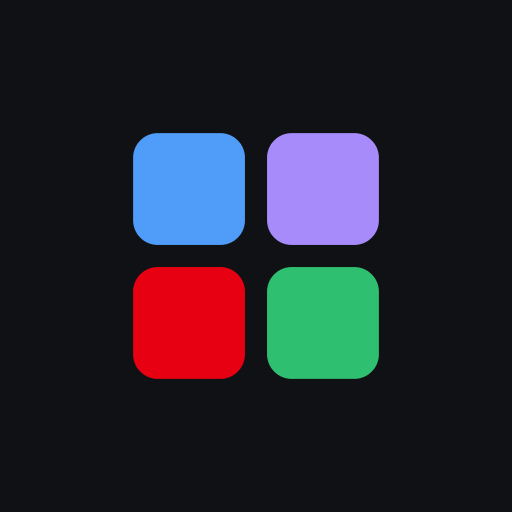
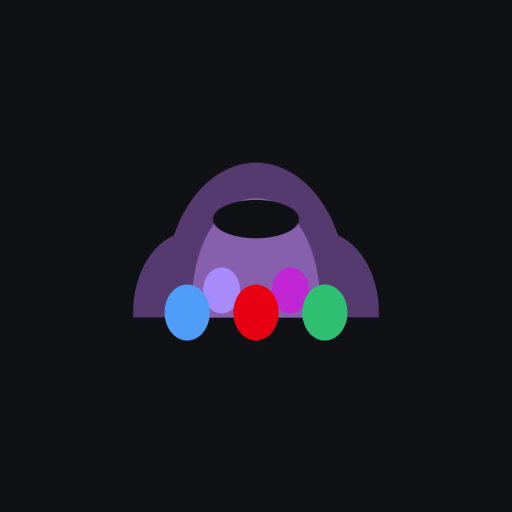
Icono nuevo: el criadero, con un huevo por seccion
El 2x2 de colores no admitia la quinta seccion, asi que iconos.py llevaba
plantado desde geopolitica y el icono estaba congelado con los cuatro colores
viejos. Los huevos salen de secciones.json y el techo pasa a ocho, que es
donde dejan de llegar a un pixel en la pestana.

Todas las piezas son elipses (la cupula es una elipse cortada por el suelo)
para que el PNG y el SVG salgan del mismo formas(): por distancia al borde
uno, con <ellipse> y un <clipPath> el otro. Una curva mas libre pedia
rasterizar poligonos aqui y escribir bezieres alli, o sea dos dibujos.

Los hombros, la boca ancha y el aro por encima salieron de mirarlo a 16, 24,
32 y 48 px; ninguna de las tres correcciones se veia a 512.

Changed region(s): [[0.25, 0.25, 0.75, 0.75]]

diff --git a/scripts/iconos.py b/scripts/iconos.py
@@ -1,16 +1,34 @@
 #!/usr/bin/env python3
 """Genera el icono de la web en sus cinco tamanos, y la imagen de compartir.
 
-Existe para que el icono no sea un binario opaco: los colores salen de
-assets/estilo.css, asi que el dia que cambie el acento de una seccion se
-regenera con `python3 scripts/iconos.py` en vez de repintarlo a mano.
+Existe para que el icono no sea un binario opaco: los colores de las secciones
+salen de assets/estilo.css, asi que el dia que cambie el acento de una seccion
+se regenera con `python3 scripts/iconos.py` en vez de repintarlo a mano.
 
-El dibujo son los cuatro colores de seccion en rejilla, en el mismo orden que
-la portada. Sin letras a proposito: a 32 px una inicial no se lee, y cuatro
-manchas de color si se reconocen de un vistazo entre veinte pestanas.
+El dibujo es el criadero que da nombre a la web: un monticulo con su abertura
+y, delante, un huevo por seccion con el color de esa seccion. Sin letras a
+proposito: a 32 px una inicial no se lee, y una silueta con manchas de color si
+se reconoce de un vistazo entre veinte pestanas.
+
+Antes eran los cuatro colores de seccion en rejilla, y el 2x2 se rompio al
+abrir geopolitica: el script se planto a proposito en vez de dejar una seccion
+fuera sin decirlo, y el icono se quedo congelado con los cuatro colores viejos.
+Los huevos no tienen ese problema: se reparten en dos filas y cuantos son sale
+de secciones.json, asi que la sexta seccion ya no obliga a redibujar nada.
 
 Solo biblioteca estandar, como el resto de scripts del proyecto: el PNG se
 escribe a mano (zlib + struct), que para figuras planas son treinta lineas.
+
+Y el dibujo se declara una sola vez, en formas(): de ahi salen tanto los PNG
+como el SVG. Cuando cada formato tenia su propio codigo de dibujo -y lo tuvo-
+la duplicacion no molestaba porque eran cuatro cuadrados; con una silueta, dos
+descripciones del mismo dibujo acaban siendo dos dibujos distintos.
+
+Por eso todas las piezas son elipses, incluida la cupula, que es una elipse
+cortada por la linea del suelo: es lo unico que los dos formatos saben pintar
+identico sin aproximar nada, por distancia al borde en el PNG y con <ellipse>
+y un <clipPath> en el SVG. Una curva mas libre obligaria a rasterizar poligonos
+aqui y a escribir bezieres alli, que es justo la divergencia que se evita.
 """
 
 import json
@@ -25,18 +43,30 @@ CSS = RAIZ / "assets" / "estilo.css"
 ASSETS = RAIZ / "assets"
 LISTA = ASSETS / "secciones.json"
 
+# Los dos tonos del monticulo. Estos si viven aqui y no en estilo.css, al reves
+# que los de los huevos: no los usa ninguna pagina, son solo del icono. Van en
+# ciruela desaturado para que ningun acento de seccion se pierda encima, y no
+# mas oscuros porque sobre el fondo (#0f1115) la silueta se emborrona a 32 px.
+CUPULA = (0x55, 0x3a, 0x70)
+CUPULA_LUZ = (0x86, 0x5f, 0xad)
+
+# A partir de aqui los huevos son mas finos que un pixel en la pestana. No es
+# un limite tecnico, es que dejarian de leerse; el dia que llegue hay que
+# decidir el dibujo, igual que paso con el 2x2.
+MAXIMO_HUEVOS = 8
+
 
 def acentos():
     """Los sufijos de color de cada seccion, en el orden en que se pintan."""
     secciones = json.loads(LISTA.read_text(encoding="utf-8"))["secciones"]
     nombres = [s["acento"] for s in secciones]
-    if len(nombres) != 4:
+    if not 1 <= len(nombres) <= MAXIMO_HUEVOS:
         raise SystemExit(
-            f"ERROR: el icono son cuatro cuadros en rejilla y "
-            f"{LISTA.name} tiene {len(nombres)} secciones.\n"
-            "Con otro numero hay que decidir antes que dibujo se quiere: "
-            "cinco colores no caben en un 2x2, y quedarse con los cuatro "
-            "primeros dejaria una seccion fuera sin decirlo."
+            f"ERROR: el icono lleva un huevo por seccion y {LISTA.name} tiene "
+            f"{len(nombres)}.\n"
+            f"Por encima de {MAXIMO_HUEVOS} cada huevo no llega a un pixel en "
+            "la pestana, asi que hay que decidir antes que dibujo se quiere "
+            "en vez de pintar manchas que no se distinguen."
         )
     return nombres
 
@@ -59,56 +89,126 @@ def color(css, nombre):
     return tuple(int(crudo[i:i + 2], 16) for i in (1, 3, 5))
 
 
-def dentro(px, py, cx, cy, lado, radio):
-    """Cuanto cubre un cuadrado redondeado a este pixel, de 0 a 1.
+def elipse(cx, cy, rx, ry, tinta, suelo=None):
+    return {"cx": cx, "cy": cy, "rx": rx, "ry": ry, "tinta": tinta,
+            "suelo": suelo}
+
+
+def formas(lado, colores, fondo, margen):
+    """El dibujo entero, en orden de pintado. La unica fuente: de aqui salen
+    los PNG y el SVG.
+
+    Las medidas van en fracciones de la zona util para que el mismo dibujo
+    valga a 32 y a 512 px, y para que el margen extra del icono maskable no
+    obligue a recolocar nada.
+    """
+    util = lado * (1 - 2 * margen)
+    cx = lado / 2
+    suelo = lado * margen + util * 0.75
+
+    piezas = []
+
+    # Los dos hombros, que son lo que hace que esto sea un monticulo. Con una
+    # sola elipse cortada por el suelo la silueta sale como un arco de circo
+    # perfecto, que se lee antes como un arcoiris que como algo vivo.
+    for costado in (-1, 1):
+        piezas.append(elipse(cx + costado * util * 0.26, suelo - util * 0.02,
+                             util * 0.24, util * 0.33, CUPULA, suelo))
+
+    piezas += [
+        # El cuerpo, mas alto y estrecho que los hombros. Todas van cortadas
+        # por la linea del suelo: es el corte lo que les da base plana.
+        elipse(cx, suelo - util * 0.11, util * 0.37, util * 0.52, CUPULA,
+               suelo),
+        # El domo interior, que es todo el volumen que hace falta: dos tonos
+        # planos se leen a 32 px y un degradado no.
+        elipse(cx, suelo - util * 0.065, util * 0.26, util * 0.42, CUPULA_LUZ,
+               suelo),
+        # La abertura, ancha y en el tercio alto. Estrecha se lee a 32 px como
+        # un mordisco en el contorno y no como un agujero, que es la diferencia
+        # entre un monticulo y un criadero; probadas las dos, gana esta.
+        # Del color del fondo y no de un tono mas oscuro, para que siga siendo
+        # un agujero en el icono de Apple y en el maskable, que van opacos.
+        elipse(cx, suelo - util * 0.40, util * 0.175, util * 0.078, fondo),
+    ]
+
+    # Un huevo por seccion, repartido en dos filas: los pares delante y los
+    # impares asomando entre ellos. Repartir en vez de alinearlos deja los
+    # huevos al doble de tamano, que a 32 px es la diferencia entre una mancha
+    # de color y nada.
+    paso = util * 0.28
+    rx, ry = util * 0.092, util * 0.114
+    filas = (
+        (colores[1::2], 0.82, suelo - util * 0.11),
+        (colores[0::2], 1.00, suelo - util * 0.02),
+    )
+    for tintas, escala, cy in filas:
+        for i, tinta in enumerate(tintas):
+            x = cx + (i - (len(tintas) - 1) / 2) * paso
+            piezas.append(elipse(x, cy, rx * escala, ry * escala, tinta))
+    return piezas
+
+
+def cobertura(px, py, pieza):
+    """Cuanto cubre una elipse a este pixel, de 0 a 1.
 
     Distancia con signo al borde: por encima de medio pixel esta dentro del
     todo, por debajo fuera, y en medio se suaviza. Sale mas barato que dibujar
     el icono a triple tamano y reducirlo, y el borde queda igual de limpio.
     """
+    dx = (px - pieza["cx"]) / pieza["rx"]
+    dy = (py - pieza["cy"]) / pieza["ry"]
+    # La distancia real a una elipse no tiene formula cerrada; esta es exacta
+    # en un circulo y sobra para las de aqui, que son todas casi redondas. Solo
+    # se usa para el medio pixel del borde.
+    fuera = (math.hypot(dx, dy) - 1) * min(pieza["rx"], pieza["ry"])
+    cubre = min(max(0.5 - fuera, 0), 1)
+    if pieza["suelo"] is not None:
+        cubre = min(cubre, max(0.5 + (pieza["suelo"] - py), 0), 1)
+    return cubre
+
+
+def dentro(px, py, cx, cy, lado, radio):
+    """Lo mismo para el cuadrado redondeado del fondo."""
     dx = max(abs(px - cx) - (lado / 2 - radio), 0)
     dy = max(abs(py - cy) - (lado / 2 - radio), 0)
     return min(max(0.5 - (math.hypot(dx, dy) - radio), 0), 1)
 
 
-def mezclar(fondo, encima, cobertura):
-    return tuple(round(f + (e - f) * cobertura) for f, e in zip(fondo, encima))
+def mezclar(fondo, encima, cubre):
+    return tuple(round(f + (e - f) * cubre) for f, e in zip(fondo, encima))
 
 
 def dibujar(lado, colores, fondo, margen, radio_fondo, con_fondo=True):
     """Devuelve las filas del icono en RGBA."""
-    # Zona util y tamano de cada cuadro: dos cuadros y un hueco entre ellos.
-    util = lado * (1 - 2 * margen)
-    hueco = util * 0.09
-    cuadro = (util - hueco) / 2
-    radio = cuadro * 0.22
+    piezas = formas(lado, colores, fondo, margen)
+    # El marco de cada pieza, para no calcular una distancia por pixel y pieza:
+    # a 512 px son dos millones y medio de cuentas que casi siempre dan cero.
+    marcos = [(p["cx"] - p["rx"] - 1, p["cx"] + p["rx"] + 1,
+               p["cy"] - p["ry"] - 1, p["cy"] + p["ry"] + 1) for p in piezas]
     centro = lado / 2
-
-    # Centro de cada uno de los cuatro, en el orden de la portada.
-    centros = [
-        (centro - (cuadro + hueco) / 2, centro - (cuadro + hueco) / 2),
-        (centro + (cuadro + hueco) / 2, centro - (cuadro + hueco) / 2),
-        (centro - (cuadro + hueco) / 2, centro + (cuadro + hueco) / 2),
-        (centro + (cuadro + hueco) / 2, centro + (cuadro + hueco) / 2),
-    ]
 
     filas = []
     for y in range(lado):
         fila = bytearray()
         py = y + 0.5
+        visibles = [(p, m) for p, m in zip(piezas, marcos)
+                    if m[2] <= py <= m[3]]
         for x in range(lado):
             px = x + 0.5
 
             if con_fondo:
-                cobertura = dentro(px, py, centro, centro, lado, radio_fondo)
-                pixel, alfa = fondo, cobertura
+                alfa = dentro(px, py, centro, centro, lado, radio_fondo)
             else:
-                pixel, alfa = fondo, 1.0
+                alfa = 1.0
+            pixel = fondo
 
-            for (cx, cy), tinta in zip(centros, colores):
-                cubre = dentro(px, py, cx, cy, cuadro, radio)
+            for pieza, marco in visibles:
+                if not marco[0] <= px <= marco[1]:
+                    continue
+                cubre = cobertura(px, py, pieza)
                 if cubre:
-                    pixel = mezclar(pixel, tinta, cubre)
+                    pixel = mezclar(pixel, pieza["tinta"], cubre)
                     alfa = max(alfa, cubre)
 
             fila += bytes(pixel) + bytes([round(alfa * 255)])
@@ -133,29 +233,28 @@ def escribir_png(ruta, ancho, alto, filas):
 def svg(colores, fondo):
     """El favicon, en vectorial: a 16 px un PNG se ve sucio y este no."""
     lado, margen = 512, 0.14
-    util = lado * (1 - 2 * margen)
-    hueco = util * 0.09
-    cuadro = (util - hueco) / 2
-    radio = cuadro * 0.22
-    inicio = lado * margen
+    piezas = formas(lado, colores, fondo, margen)
+    # Las dos piezas recortadas comparten la misma linea de suelo, asi que
+    # basta un clip para las dos.
+    suelo = next(p["suelo"] for p in piezas if p["suelo"] is not None)
 
-    posiciones = [
-        (inicio, inicio),
-        (inicio + cuadro + hueco, inicio),
-        (inicio, inicio + cuadro + hueco),
-        (inicio + cuadro + hueco, inicio + cuadro + hueco),
+    salida = [
+        '<svg xmlns="http://www.w3.org/2000/svg" viewBox="0 0 %d %d">'
+        % (lado, lado),
+        '  <defs><clipPath id="suelo">'
+        '<rect x="0" y="0" width="%d" height="%.1f"/></clipPath></defs>'
+        % (lado, suelo),
+        '  <rect width="%d" height="%d" rx="114" fill="#%02x%02x%02x"/>'
+        % (lado, lado, *fondo),
     ]
-
-    piezas = [
-        '<svg xmlns="http://www.w3.org/2000/svg" viewBox="0 0 512 512">',
-        '  <rect width="512" height="512" rx="114" fill="#%02x%02x%02x"/>' % fondo,
-    ]
-    for (x, y), tinta in zip(posiciones, colores):
-        piezas.append(
-            '  <rect x="%.1f" y="%.1f" width="%.1f" height="%.1f" rx="%.1f" '
-            'fill="#%02x%02x%02x"/>' % (x, y, cuadro, cuadro, radio, *tinta))
-    piezas.append('</svg>')
-    return "\n".join(piezas) + "\n"
+    for p in piezas:
+        recorte = ' clip-path="url(#suelo)"' if p["suelo"] is not None else ""
+        salida.append(
+            '  <ellipse cx="%.1f" cy="%.1f" rx="%.1f" ry="%.1f" '
+            'fill="#%02x%02x%02x"%s/>'
+            % (p["cx"], p["cy"], p["rx"], p["ry"], *p["tinta"], recorte))
+    salida.append("</svg>")
+    return "\n".join(salida) + "\n"
 
 
 def compartir(ancho, alto, colores, fondo):
@@ -177,7 +276,8 @@ def compartir(ancho, alto, colores, fondo):
     for y in range(alto):
         if arriba <= y < arriba + marca:
             fila = filas_marca[y - arriba]
-            filas.append(vacia * izquierda + fila + vacia * (ancho - izquierda - marca))
+            filas.append(vacia * izquierda + fila +
+                         vacia * (ancho - izquierda - marca))
         else:
             filas.append(vacia * ancho)
     return filas
@@ -196,7 +296,7 @@ def main():
     print()
 
     (ASSETS / "icono.svg").write_text(svg(colores, fondo), encoding="utf-8")
-    print(f"  assets/icono.svg")
+    print("  assets/icono.svg")
 
     # Los dos del manifest y el de Apple: fondo redondeado, como se ve en la
     # pantalla de inicio.

diff --git a/CLAUDE.md b/CLAUDE.md
@@ -1395,7 +1395,8 @@ pero no tiene dias anteriores; sin el `desde`, `estado` reclama turnos de antes
 de que existiera. Los dos aparecen semanas despues.
 
 `secciones.json` es ahora la lista buena. **La leen** `historico.html` (las
-pestanas), `scripts/iconos.py` (los cuatro colores, en ese orden) y `comprobar`.
+pestanas), `scripts/iconos.py` (un huevo del icono por seccion, en ese orden) y
+`comprobar`.
 **No la leen, y no es un descuido:**
 
 - **`estilo.css`**, porque una hoja de estilos no puede leer un JSON. Los
@@ -1414,10 +1415,10 @@ ocho sitios que faltaban salieron como ocho errores, cada uno diciendo que hacer
 El workflow lo lanza detras de `estado` con `if: always()`, para que un alta a
 medias se vea en el mismo correo y no en el de doce horas despues.
 
-**Al anadir la quinta seccion hay que decidir que hace el icono**: son cuatro
-cuadros en rejilla, asi que `iconos.py` se planta a proposito si la lista no
-tiene cuatro. Quedarse con las cuatro primeras dejaria una seccion fuera sin
-decirlo.
+**El icono ya no pone techo al numero de secciones**, pero sigue teniendo uno:
+lleva un huevo por seccion y `iconos.py` se planta por encima de ocho, que es
+donde el huevo deja de llegar a un pixel en la pestana. Antes eran cuatro
+cuadros en rejilla y se planto con geopolitica, ver mas abajo.
 
 ## Icono, manifest y previsualizacion
 
@@ -1425,23 +1426,64 @@ La web se lee en el movil todos los dias, asi que desde el 21-08-2026 se
 instala como una app: `manifest.json` en la raiz, iconos en `assets/` y las
 metas en el `<head>` de las seis paginas.
 
-**El icono lo genera `scripts/iconos.py`, no un editor de imagenes.** Los cuatro
-colores salen de `assets/estilo.css` (`--acento-tec`, `--acento-ia`,
-`--acento-nin`, `--acento-ofe`), asi que el dia que cambie el acento de una
-seccion se regenera con `python3 scripts/iconos.py` en vez de repintarlo a
-mano. Escribe el PNG a mano con `zlib` y `struct`, que para figuras planas son
-treinta lineas, y asi el script sigue la regla del proyecto de no depender de
-nada que no sea la biblioteca estandar.
+**El icono lo genera `scripts/iconos.py`, no un editor de imagenes.** Los
+colores de las secciones salen de `assets/estilo.css` (`--acento-tec`,
+`--acento-ia`, `--acento-nin`, `--acento-geo`, `--acento-ofe`), asi que el dia
+que cambie el acento de una seccion se regenera con `python3
+scripts/iconos.py` en vez de repintarlo a mano. Escribe el PNG a mano con
+`zlib` y `struct`, que para figuras planas son treinta lineas, y asi el script
+sigue la regla del proyecto de no depender de nada que no sea la biblioteca
+estandar.
 
-El dibujo son los cuatro colores en rejilla, **sin letras a proposito**: a 32 px
-una inicial no se lee, y cuatro manchas de color si se reconocen entre veinte
-pestanas.
+El dibujo es **el criadero que da nombre a la web**: un monticulo con su
+abertura y, delante, un huevo por seccion con el color de esa seccion. Sin
+letras a proposito: a 32 px una inicial no se lee, y una silueta con manchas de
+color si se reconoce entre veinte pestanas.
+
+### El dibujo: de la rejilla al criadero (30-08-2026)
+
+Hasta ese dia eran los cuatro colores de seccion en un 2x2. Lo cambio la quinta
+seccion: `iconos.py` se planta a proposito si el dibujo no admite las secciones
+que hay, asi que **desde geopolitica el icono estaba congelado**, con los cuatro
+colores viejos y sin poderse regenerar. El criadero quita ese techo, porque los
+huevos se reparten en dos filas y salen de `secciones.json`.
+
+Cinco cosas que hay que saber antes de tocar el dibujo:
+
+- **Es un criadero generico, no el de ningun juego, y eso es deliberado.** La
+  idea vino de las estructuras organicas de la estrategia espacial, pero lo que
+  esta protegido es el diseno concreto de cada una: aqui la silueta es propia,
+  la paleta es la de la web y en el repositorio no se nombra ningun juego ni
+  ninguna marca. Un nido con huevos no lo invento nadie; una copia de uno
+  concreto si tiene dueno.
+- **Todas las piezas son elipses, incluida la cupula**, que es una elipse
+  cortada por la linea del suelo. No es una limitacion de gusto: es lo unico que
+  los PNG y el SVG saben pintar identico sin aproximar nada -por distancia al
+  borde aqui, con `<ellipse>` y un `<clipPath>` alli-. Una curva mas libre
+  obligaria a rasterizar poligonos en un lado y a escribir bezieres en el otro,
+  o sea dos descripciones del mismo dibujo, que acaban siendo dos dibujos.
+- Por lo mismo, **el dibujo se declara una sola vez**, en `formas()`, y de ahi
+  salen los seis ficheros. Antes cada formato tenia su codigo y no molestaba
+  porque eran cuatro cuadrados.
+- **Los hombros no son adorno.** Con una sola elipse cortada, la silueta sale
+  como un arco de circo perfecto y se lee antes como un arcoiris que como algo
+  vivo. Son dos elipses mas bajas a los lados, y con eso ya es un monticulo.
+- **La abertura va ancha, achatada y con aro por encima**, y las tres cosas se
+  decidieron mirandolas a 16, 24, 32 y 48 px, que es donde se usa el icono:
+  estrecha se lee como un mordisco en el contorno y no como un agujero; alta y
+  pegada al borde superior deja una franja fina que convierte el conjunto en el
+  asa de un bolso. Va del color del fondo y no de un tono mas oscuro, para que
+  siga siendo un agujero en el icono de Apple y en el maskable, que van opacos.
+
+La leccion es la de siempre en este proyecto, aplicada al diseno: **el icono se
+juzga al tamano al que se usa, no a 512 px**. Las tres correcciones de arriba se
+veian todas en la tira de 16 a 48 px y ninguna en el grande.
 
 Cuatro cosas que hay que saber para no romperlo:
 
 - **El "maskable" lleva mas margen que los demas** (26% contra 14%). Android
   recorta ese icono a un circulo y solo garantiza el 80% central: con el margen
-  normal le cortaria las esquinas a los cuadros de arriba.
+  normal le cortaria los hombros al monticulo.
 - **El de Apple va cuadrado y opaco.** iOS redondea el icono el solo y no lleva
   bien la transparencia: se la rellena de negro.
 - **`og:image` y `og:url` van en absoluto.** Quien genera la previsualizacion de
